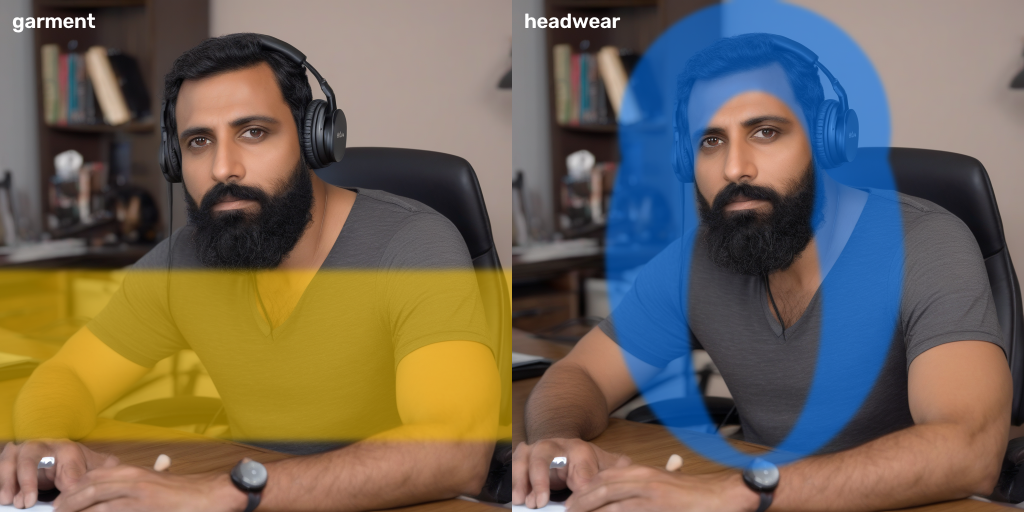
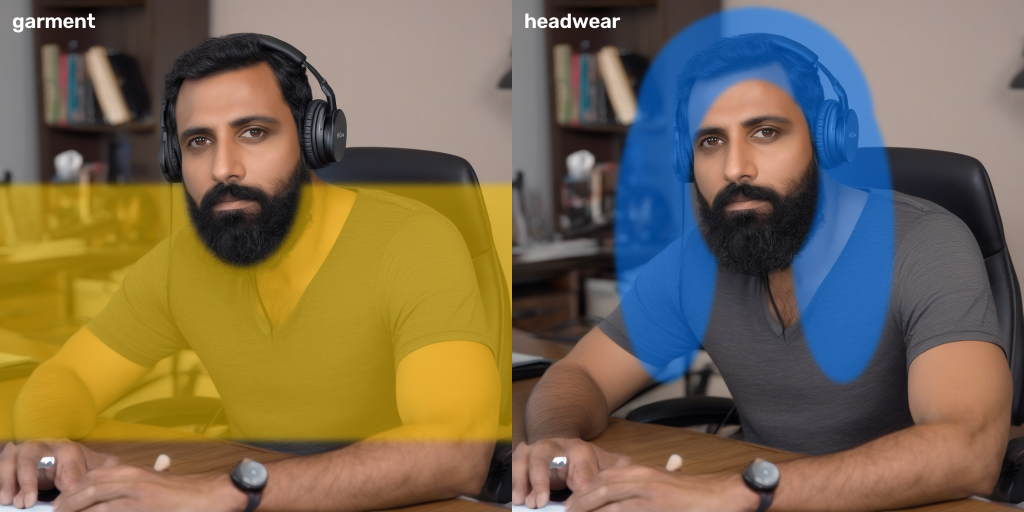
Anon: 2 files (2 modified)

Changed region(s): [[0.5625, 0.1562, 0.9062, 0.9375], [0.0, 0.3438, 0.5, 0.5312], [0.5938, 0.0, 0.875, 0.3125]]

diff --git a/Anon/tools/generate_wardrobe.py b/Anon/tools/generate_wardrobe.py
@@ -360,7 +360,7 @@ def main() -> int:
             if HEADWEAR[head] is not None:
                 # A skullcap sits on the crown; a ghutra falls to the
                 # shoulders. Same mask function, different drape.
-                drape = 0.15 if head == "taqiyah" else 1.5
+                drape = 0.0 if head == "taqiyah" else 0.9
                 out = inpaint(body, headwear_mask(g, drape=drape),
                               HEADWEAR[head], args.seed + ci * 17 + hi * 3)
             cv2.imwrite(str(path), out)
